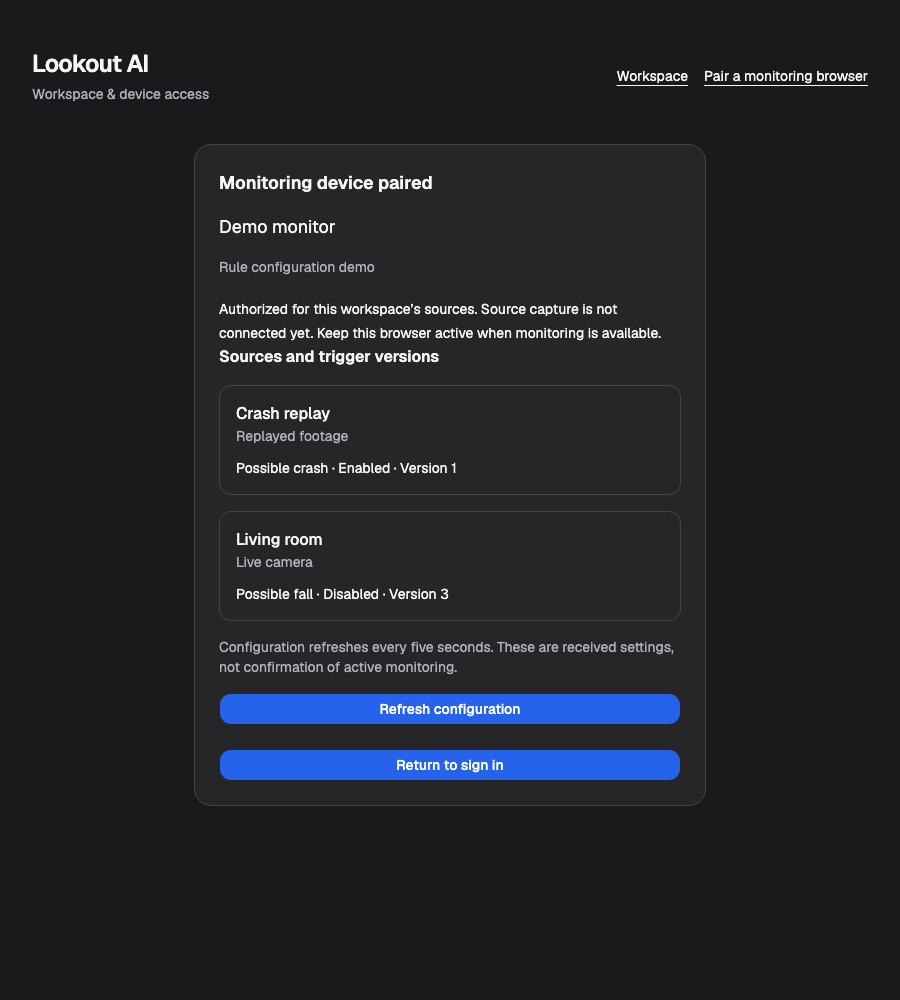
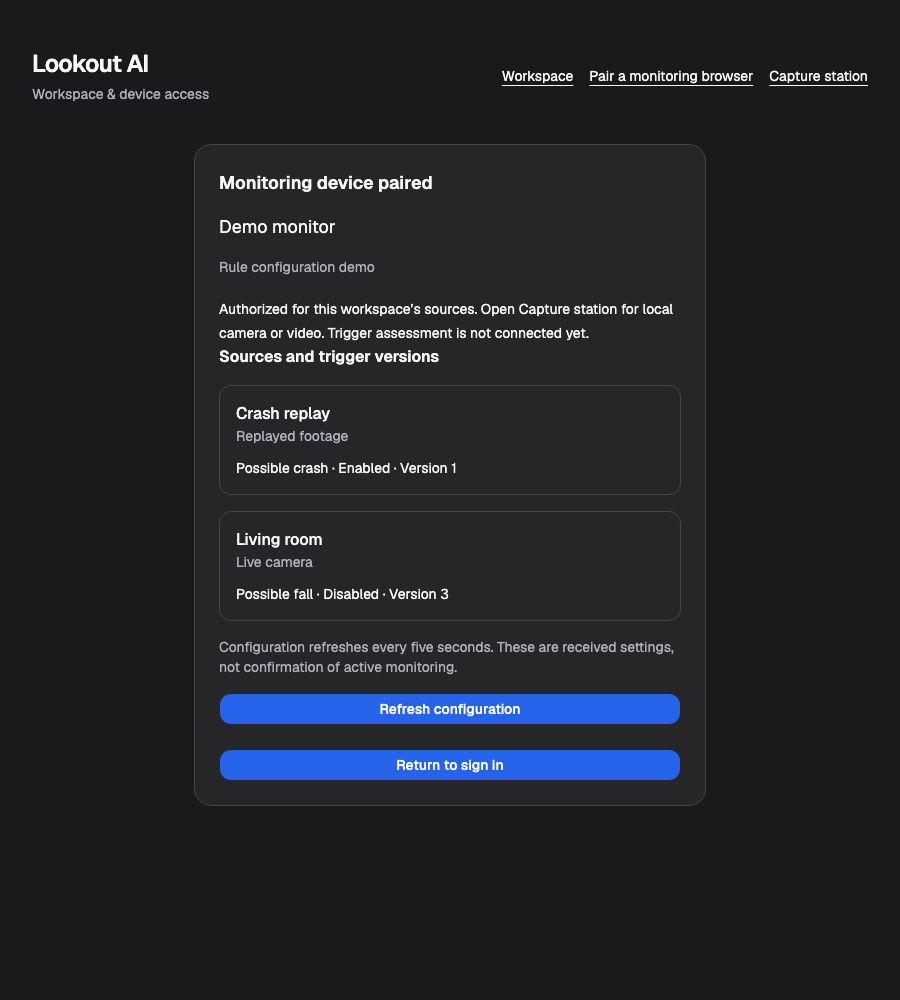
docs: record production rule configuration QA

Changed region(s): [[0.2489, 0.279, 0.7467, 0.341], [0.56, 0.062, 0.9644, 0.093]]

diff --git a/apps/app/src/routeTree.gen.ts b/apps/app/src/routeTree.gen.ts
@@ -208,3 +208,12 @@ const rootRouteChildren: RootRouteChildren = {
 export const routeTree = rootRouteImport
   ._addFileChildren(rootRouteChildren)
   ._addFileTypes<FileRouteTypes>()
+
+import type { getRouter } from './router.tsx'
+import type { createStart } from '@tanstack/react-start'
+declare module '@tanstack/react-start' {
+  interface Register {
+    ssr: true
+    router: Awaited<ReturnType<typeof getRouter>>
+  }
+}

diff --git a/docs/features/monitoring/F-RULE-CONFIG.md b/docs/features/monitoring/F-RULE-CONFIG.md
@@ -38,7 +38,7 @@ Local capture now exists at `/device`, but connecting its capture identity to co
 
 [UI integration tests](../../../apps/app/tests/integration/rules.test.tsx) drive complete routes through MSW HTTP boundaries. They cover template/custom creation, edit/disable/reload, source setup, empty/error states, preserved drafts, recipient validation, and device configuration denial. Both suites run in `pnpm verify`.
 
-Production-browser QA uses separate owner/device sessions and real local D1 without HTTP mocks. The PR records the tested revision, observed steps, desktop/mobile screenshots, and any gaps. Saved source/rule settings do not establish capture, alert delivery, or stale incident-report rejection.
+Production-build Chromium QA used separate owner/device sessions and real local D1 without HTTP mocks. It verified fall/crash/custom creation, reload persistence, recipient-validation recovery, automatic edit/disable version delivery, revocation, keyboard navigation, and a 390-pixel layout without horizontal overflow. The existing capture station remained accessible. No page errors or failed network requests were observed. [Saved templates](../../qa/rule-configuration/saved-templates.png), [recipient validation](../../qa/rule-configuration/recipient-validation.png), [device versions](../../qa/rule-configuration/device-versions.png), and [mobile editor](../../qa/rule-configuration/mobile-editor.png) record the observed states. The PR identifies the tested revision. Saved source/rule settings do not establish capture, alert delivery, or stale incident-report rejection.
 
 ## Decisions and sources
 
